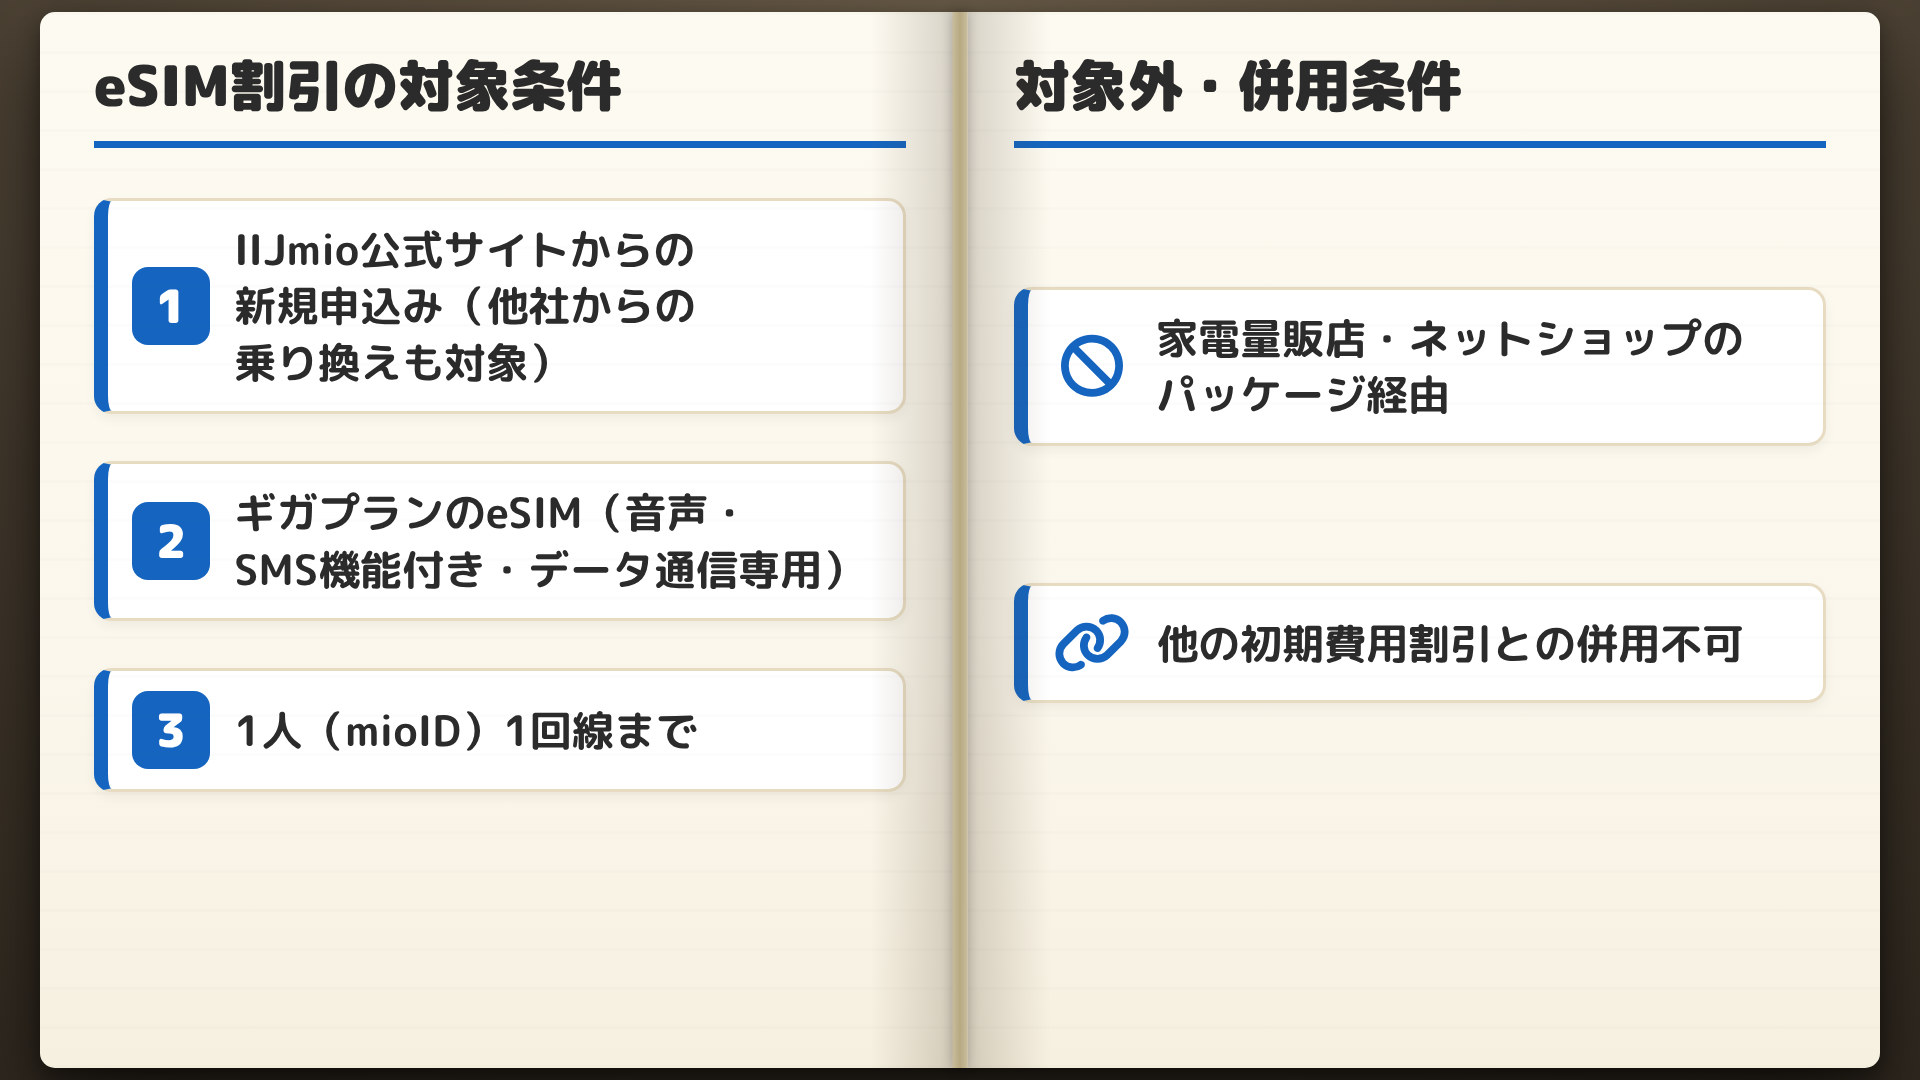
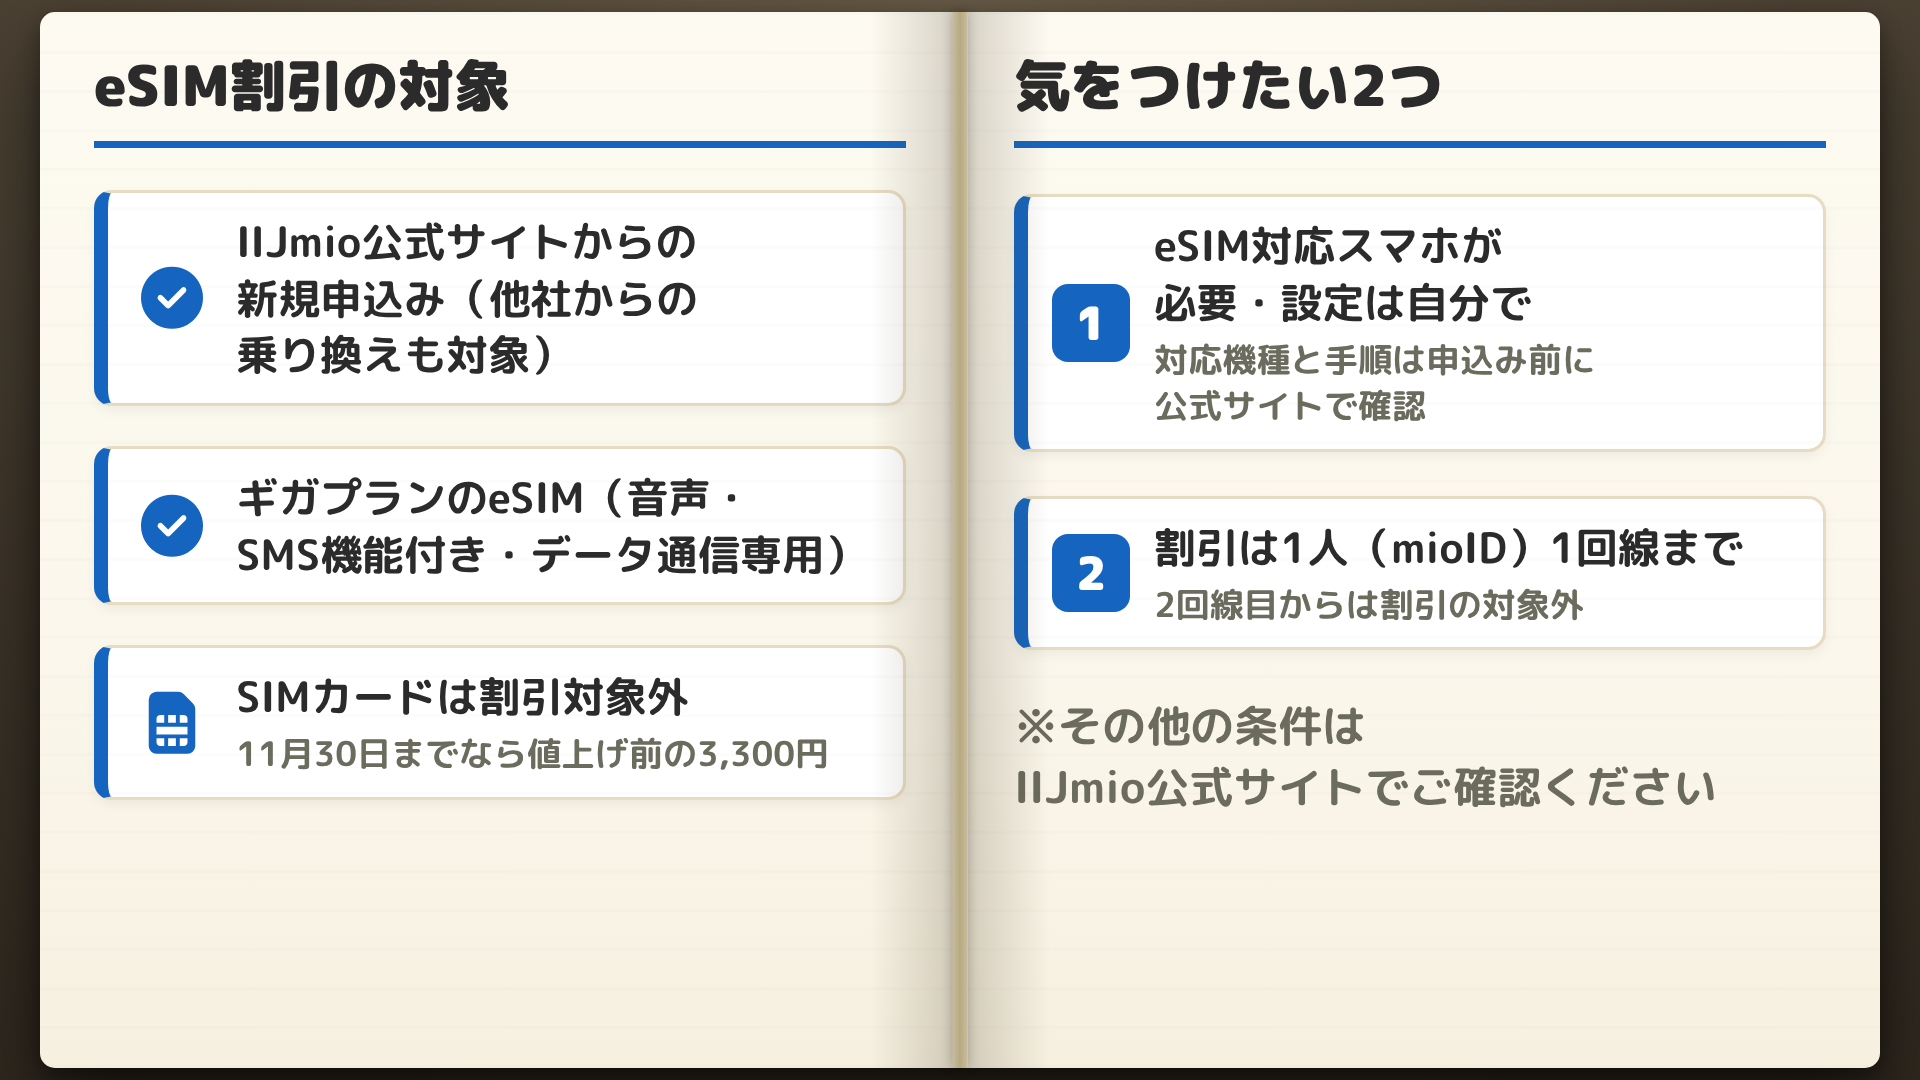
スライド修正

diff --git a/slides.html b/slides.html
@@ -538,41 +538,56 @@
       <div class="book">
         <div class="spine"></div>
         <div class="page left">
-          <div class="page-head">eSIM割引の対象条件</div>
+          <div class="page-head">eSIM割引の対象</div>
           <div class="page-body">
             <ul class="rows">
               <li>
-                <span class="badge">1</span>
+                <span class="ic"><i class="fa-solid fa-circle-check"></i></span>
                 <div class="tx">
                   IIJmio公式サイトからの新規申込み（他社からの乗り換えも対象）
                 </div>
               </li>
               <li>
-                <span class="badge">2</span>
+                <span class="ic"><i class="fa-solid fa-circle-check"></i></span>
                 <div class="tx">
                   ギガプランのeSIM（音声・SMS機能付き・データ通信専用）
                 </div>
               </li>
               <li>
-                <span class="badge">3</span>
-                <div class="tx">1人（mioID）1回線まで</div>
+                <span class="ic"><i class="fa-solid fa-sim-card"></i></span>
+                <div class="tx">
+                  SIMカードは割引対象外<span class="sub"
+                    >11月30日までなら値上げ前の3,300円</span
+                  >
+                </div>
               </li>
             </ul>
           </div>
         </div>
         <div class="page right">
-          <div class="page-head">対象外・併用条件</div>
+          <div class="page-head">気をつけたい2つ</div>
           <div class="page-body">
             <ul class="rows">
               <li>
-                <span class="ic"><i class="fa-solid fa-ban"></i></span>
-                <div class="tx">家電量販店・ネットショップのパッケージ経由</div>
+                <span class="badge">1</span>
+                <div class="tx">
+                  eSIM対応スマホが必要・設定は自分で<span class="sub"
+                    >対応機種と手順は申込み前に公式サイトで確認</span
+                  >
+                </div>
               </li>
               <li>
-                <span class="ic"><i class="fa-solid fa-link"></i></span>
-                <div class="tx">他の初期費用割引との併用不可</div>
+                <span class="badge">2</span>
+                <div class="tx">
+                  割引は1人（mioID）1回線まで<span class="sub"
+                    >2回線目からは割引の対象外</span
+                  >
+                </div>
               </li>
             </ul>
+            <div class="note">
+              ※その他の条件はIIJmio公式サイトでご確認ください
+            </div>
           </div>
         </div>
       </div>
